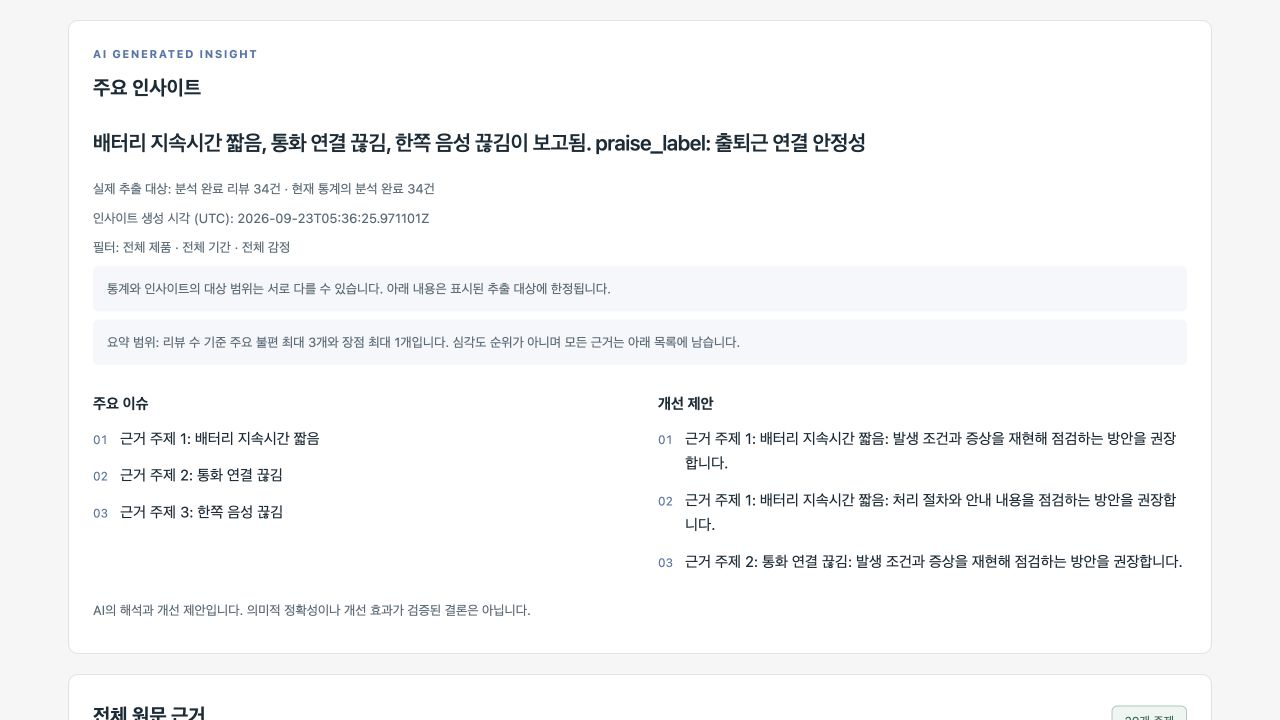
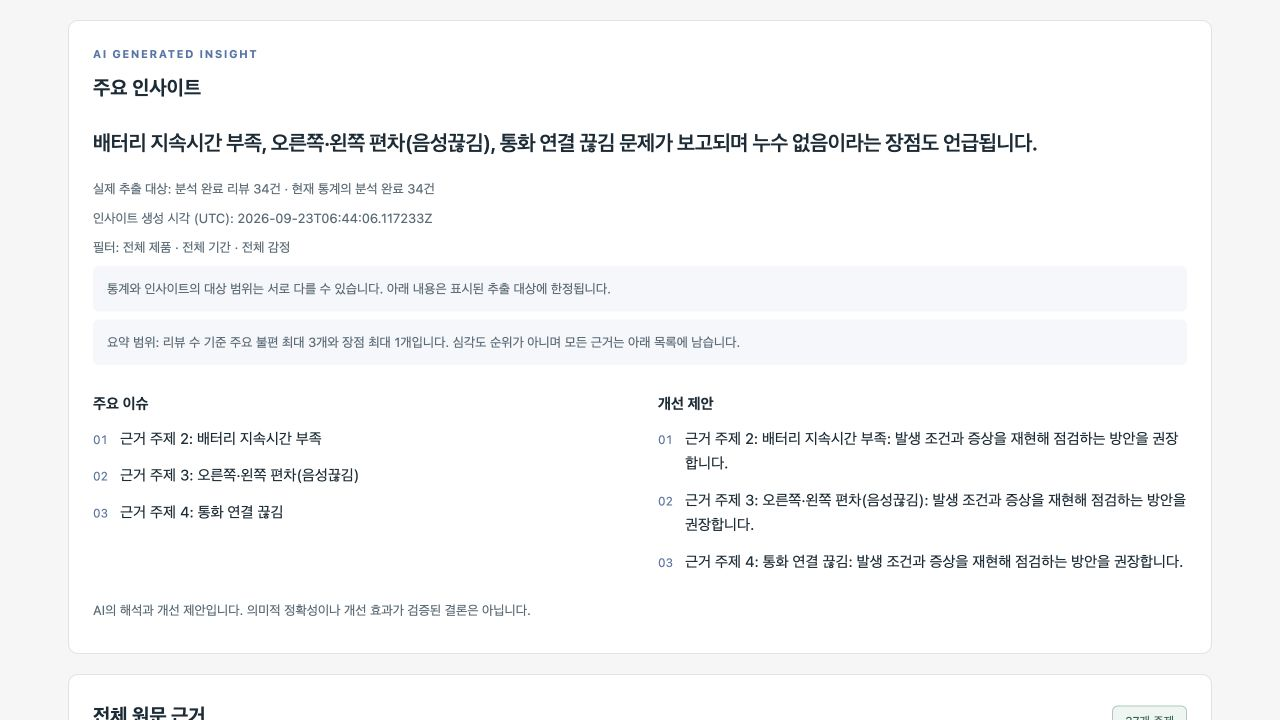
docs: v6 인사이트 재생성 결과와 제출 화면 갱신

diff --git a/docs/INSIGHT_V6_VERIFICATION.md b/docs/INSIGHT_V6_VERIFICATION.md
@@ -1,0 +1,52 @@
+# 인사이트 v6 재생성과 화면 검증
+
+## 수정 내용
+
+대량 리뷰 요약에서 `praise_label: 출퇴근 연결 안정성`처럼 입력 필드명이 문장에
+노출된 문제가 있었다. 웹과 단일 HTML은 같은 저장 요약을 표시하므로 양쪽에 나타났다.
+
+- 일반·분할 요약 프롬프트에서 장점의 **문자열 값만** 한국어 문장에 넣도록 명시했다.
+- 요약·이슈·개선 제안에 내부 필드명이나 `label: 값` 표현이 있으면 형식 오류로
+  거부한다. 대소문자·전각·Markdown 이스케이프와 `praise_lable` 오타도 검사한다.
+- 실패한 요약 단계만 설정된 횟수 내에서 재시도한다. 성공한 근거 추출은 반복하지 않는다.
+- 프롬프트 버전을 `review-insights-v6`으로 올려 기존 v5 결과의 캐시 재사용을 막았다.
+  이전 프롬프트는 `evaluation/prompts/review-insights-v5*.txt`에 보존했다.
+
+## 실제 재생성
+
+2026-09-23 15:44 KST에 사용자의 승인을 받아 기존 OpenAI 설정으로 다시 추출했다.
+전송한 리뷰는 모두 [합성 샘플 CSV](../data/sample_reviews.csv)의 제품명·본문과 일치한다.
+
+| 항목 | 결과 |
+|---|---|
+| 기능 커밋 | `ed205cf` |
+| 제공자·요청 모델 | OpenAI · `gpt-5-mini` |
+| 프롬프트·추론 설정 | `review-insights-v6` · `minimal` |
+| 대상 | 전체 조건, 최대 50건 중 분석 완료 34건 |
+| 실제 요청 | 근거 2회 + 요약 1회, 모두 첫 시도 성공 |
+| 원문 근거 | 제품·종류·주제별 37개, 원문 인용 검증 통과 |
+| 데이터 보존 | 기존 DB 파일 해시·대상 리뷰 ID·원문/분석 지문 동일 |
+| 새 파일 | `dashboard_20260923_064406.html`, 같은 시각의 PNG·Markdown 리포트 |
+
+새 요약:
+
+> 배터리 지속시간 부족, 오른쪽·왼쪽 편차(음성끊김), 통화 연결 끊김 문제가 보고되며 누수 없음이라는 장점도 언급됩니다.
+
+이슈·개선 제안·요약에서 내부 필드명 노출이 없음을 검사하고 원본 저장 JSON,
+웹 인사이트와 단일 HTML에 같은 요약이 표시되는지 확인했다. HTML에서 배터리 주제를
+펼쳐 리뷰 5의 원문 인용도 확인했다. 새 결과는 로컬 `output/final-tests/`에 저장하고,
+이전 v5 JSON은 별도로 보관했다. 실행 산출물과 DB는 Git에 포함하지 않는다.
+
+근거 개수는 기존 29개에서 37개로 바뀌었다. 원문은 동일하지만 AI 재추출에 따라
+주제 표현과 묶음이 달라진 결과이며, 새로운 리뷰가 추가된 것은 아니다.
+
+## 자동 검증과 캡처
+
+- Python 전체 테스트 **554개 통과**: 필드명 노출 거부, 정상 문장 보존, 일반·분할
+  요약 경로, 요약만 재시도, 재시도 소진 시 실패, 이전 버전 캐시 무효화 포함.
+- JavaScript 테스트 **13개 통과**.
+- 기본 합성 평가셋 **18건 형식 검증 통과**(이 검사는 API 호출 없음).
+- README 캡처 4장: 웹 개요, 웹 인사이트, 단일 HTML 인사이트, 펼친 원문 근거.
+
+이는 출력 형식·근거 인용·화면 연결에 대한 검증이다. AI가 붙인 주제의 의미와
+장단점 분류의 정확성까지 모두 검증했다는 뜻은 아니다.
